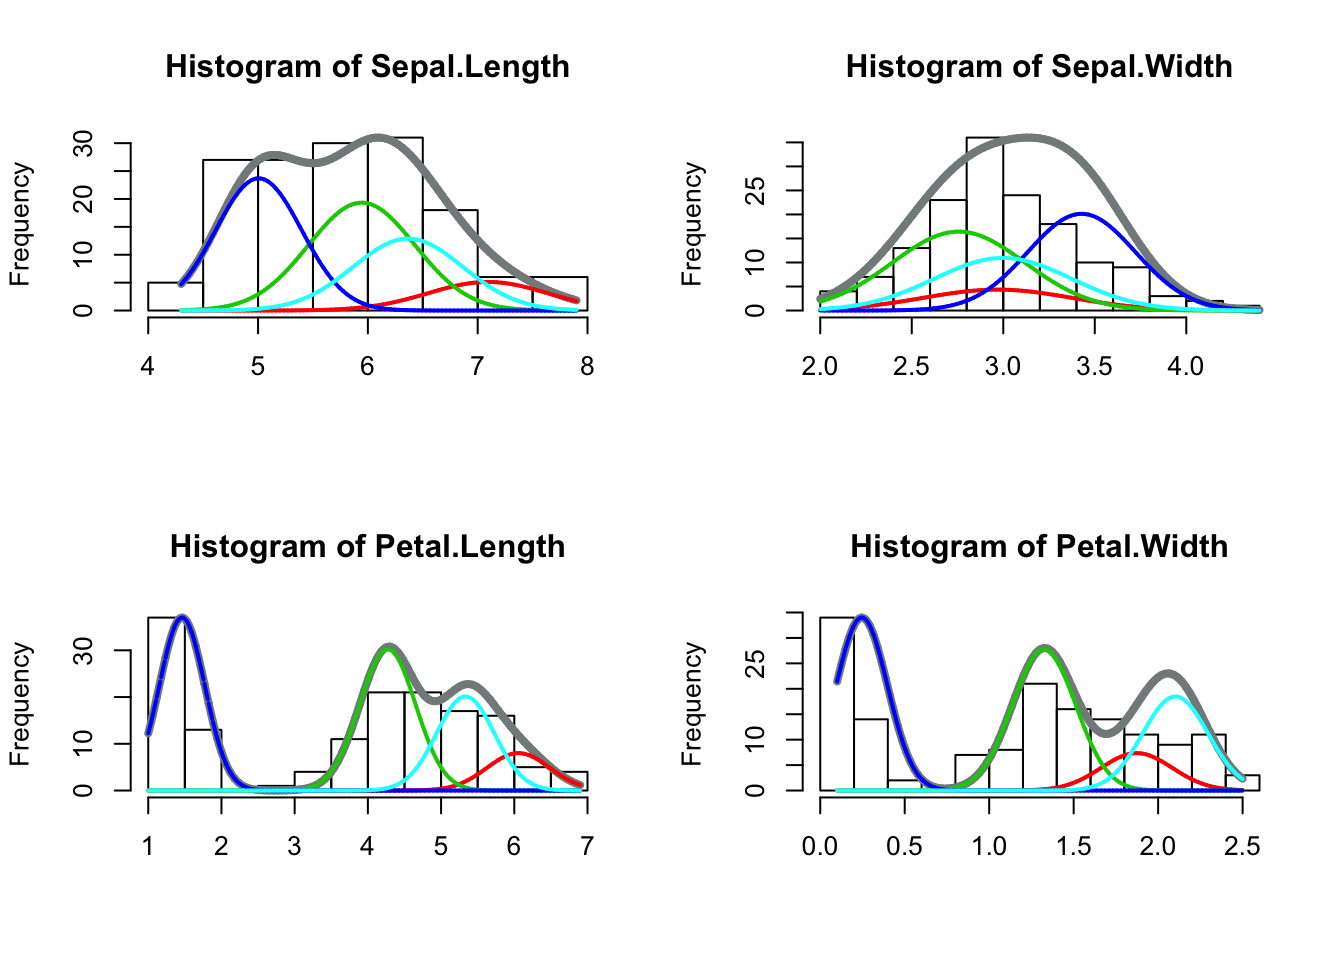
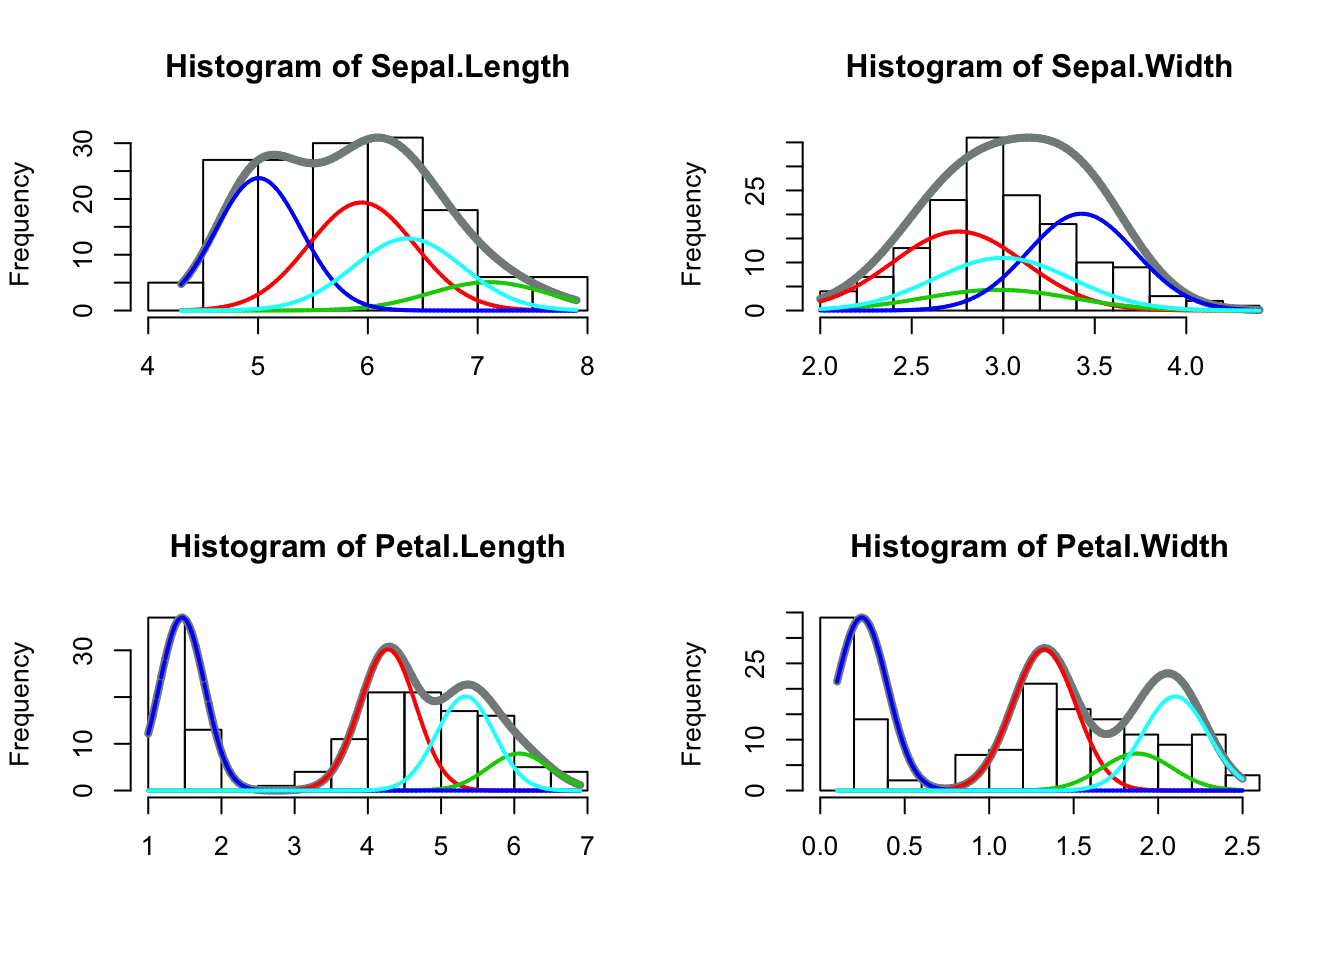
correct plot in stat prog R 4

diff --git a/stat-prog-R-4.html b/stat-prog-R-4.html
@@ -418,20 +418,18 @@ head(criterion[order(criterion$AIC),], 3)</code></pre>
 ## 124 7   VVV 415.4447 519.4447
 ## 107 8   VEV 429.1328 527.1328
 ## 126 9   VVV 432.4844 566.4844</code></pre>
-<pre class="r"><code>ggplot(criterion, aes(factor(G), AIC, color = model)) +
-    geom_line() </code></pre>
-<pre><code>## geom_path: Each group consists of only one observation. Do you need to
-## adjust the group aesthetic?</code></pre>
+<pre class="r"><code>ggplot(criterion, aes(G, AIC, color = model)) +
+    geom_line() +
+    scale_x_discrete(limits = G)</code></pre>
 <p><img src="stat-prog-R-4_files/figure-html/unnamed-chunk-7-1.png" width="672" /></p>
 <pre class="r"><code>head(criterion[order(criterion$AIC3),], 3)</code></pre>
 <pre><code>##     G model      AIC     AIC3
 ## 102 3   VEV 448.1473 486.1473
 ## 120 3   VVV 448.3719 492.3719
 ## 103 4   VEV 453.3948 503.3948</code></pre>
-<pre class="r"><code>ggplot(criterion, aes(factor(G), AIC3, color = model)) +
-    geom_line()</code></pre>
-<pre><code>## geom_path: Each group consists of only one observation. Do you need to
-## adjust the group aesthetic?</code></pre>
+<pre class="r"><code>ggplot(criterion, aes(G, AIC3, color = model)) +
+    geom_line() +
+    scale_x_discrete(limits = G)</code></pre>
 <p><img src="stat-prog-R-4_files/figure-html/unnamed-chunk-7-2.png" width="672" /></p>
 </div>
 <div id="hierarchical-clustering" class="section level3">
@@ -507,37 +505,37 @@ mixmodBIC</code></pre>
 ## ****************************************
 ## * nbCluster   =  4 
 ## * model name  =  Gaussian_pk_Lk_C 
-## * criterion   =  BIC(602.9129)
-## * likelihood  =  -221.2863 
+## * criterion   =  BIC(593.8644)
+## * likelihood  =  -216.7620 
 ## ****************************************
 ## *** Cluster 1 
-## * proportion =  0.3097 
-## * means      =  5.9261 2.7664 4.2192 1.3037 
-## * variances  = |     0.2044     0.0697     0.1261     0.0337 |
-##                |     0.0697     0.0909     0.0491     0.0265 |
-##                |     0.1261     0.0491     0.1413     0.0354 |
-##                |     0.0337     0.0265     0.0354     0.0320 |
+## * proportion =  0.3359 
+## * means      =  5.9438 2.7564 4.2704 1.3245 
+## * variances  = |     0.2352     0.1031     0.1258     0.0481 |
+##                |     0.1031     0.1314     0.0495     0.0282 |
+##                |     0.1258     0.0495     0.1472     0.0507 |
+##                |     0.0481     0.0282     0.0507     0.0353 |
 ## *** Cluster 2 
-## * proportion =  0.1332 
-## * means      =  5.2650 3.7543 1.4469 0.2521 
-## * variances  = |     0.1224     0.0418     0.0755     0.0202 |
-##                |     0.0418     0.0545     0.0294     0.0159 |
-##                |     0.0755     0.0294     0.0846     0.0212 |
-##                |     0.0202     0.0159     0.0212     0.0192 |
+## * proportion =  0.1000 
+## * means      =  7.0922 2.9685 6.0551 1.8731 
+## * variances  = |     0.2961     0.1298     0.1584     0.0605 |
+##                |     0.1298     0.1655     0.0623     0.0355 |
+##                |     0.1584     0.0623     0.1853     0.0639 |
+##                |     0.0605     0.0355     0.0639     0.0444 |
 ## *** Cluster 3 
-## * proportion =  0.2001 
-## * means      =  4.8336 3.2108 1.4721 0.2420 
-## * variances  = |     0.1083     0.0370     0.0669     0.0179 |
-##                |     0.0370     0.0482     0.0260     0.0140 |
-##                |     0.0669     0.0260     0.0749     0.0188 |
-##                |     0.0179     0.0140     0.0188     0.0170 |
+## * proportion =  0.2308 
+## * means      =  6.3655 2.9984 5.3335 2.1023 
+## * variances  = |     0.2502     0.1097     0.1339     0.0511 |
+##                |     0.1097     0.1398     0.0527     0.0300 |
+##                |     0.1339     0.0527     0.1566     0.0540 |
+##                |     0.0511     0.0300     0.0540     0.0375 |
 ## *** Cluster 4 
-## * proportion =  0.3570 
-## * means      =  6.5535 2.9636 5.5019 1.9990 
-## * variances  = |     0.3859     0.1317     0.2381     0.0636 |
-##                |     0.1317     0.1717     0.0926     0.0500 |
-##                |     0.2381     0.0926     0.2668     0.0669 |
-##                |     0.0636     0.0500     0.0669     0.0604 |
+## * proportion =  0.3333 
+## * means      =  5.0060 3.4280 1.4620 0.2460 
+## * variances  = |     0.1543     0.0677     0.0825     0.0315 |
+##                |     0.0677     0.0862     0.0325     0.0185 |
+##                |     0.0825     0.0325     0.0966     0.0333 |
+##                |     0.0315     0.0185     0.0333     0.0231 |
 ## ****************************************</code></pre>
 <pre class="r"><code>summary(mixmodBIC)</code></pre>
 <pre><code>## **************************************************************
@@ -546,37 +544,37 @@ mixmodBIC</code></pre>
 ## **************************************************************
 ## *       Number of cluster =  4 
 ## *              Model Type =  Gaussian_pk_Lk_C 
-## *               Criterion =  BIC(602.9129)
+## *               Criterion =  BIC(593.8644)
 ## *              Parameters =  list by cluster
 ## *                  Cluster  1 : 
-##                          Proportion =  0.3097 
-##                               Means =  5.9261 2.7664 4.2192 1.3037 
-##                           Variances = |     0.2044     0.0697     0.1261     0.0337 |
-##                                       |     0.0697     0.0909     0.0491     0.0265 |
-##                                       |     0.1261     0.0491     0.1413     0.0354 |
-##                                       |     0.0337     0.0265     0.0354     0.0320 |
+##                          Proportion =  0.3359 
+##                               Means =  5.9438 2.7564 4.2704 1.3245 
+##                           Variances = |     0.2352     0.1031     0.1258     0.0481 |
+##                                       |     0.1031     0.1314     0.0495     0.0282 |
+##                                       |     0.1258     0.0495     0.1472     0.0507 |
+##                                       |     0.0481     0.0282     0.0507     0.0353 |
 ## *                  Cluster  2 : 
-##                          Proportion =  0.1332 
-##                               Means =  5.2650 3.7543 1.4469 0.2521 
-##                           Variances = |     0.1224     0.0418     0.0755     0.0202 |
-##                                       |     0.0418     0.0545     0.0294     0.0159 |
-##                                       |     0.0755     0.0294     0.0846     0.0212 |
-##                                       |     0.0202     0.0159     0.0212     0.0192 |
+##                          Proportion =  0.1000 
+##                               Means =  7.0922 2.9685 6.0551 1.8731 
+##                           Variances = |     0.2961     0.1298     0.1584     0.0605 |
+##                                       |     0.1298     0.1655     0.0623     0.0355 |
+##                                       |     0.1584     0.0623     0.1853     0.0639 |
+##                                       |     0.0605     0.0355     0.0639     0.0444 |
 ## *                  Cluster  3 : 
-##                          Proportion =  0.2001 
-##                               Means =  4.8336 3.2108 1.4721 0.2420 
-##                           Variances = |     0.1083     0.0370     0.0669     0.0179 |
-##                                       |     0.0370     0.0482     0.0260     0.0140 |
-##                                       |     0.0669     0.0260     0.0749     0.0188 |
-##                                       |     0.0179     0.0140     0.0188     0.0170 |
+##                          Proportion =  0.2308 
+##                               Means =  6.3655 2.9984 5.3335 2.1023 
+##                           Variances = |     0.2502     0.1097     0.1339     0.0511 |
+##                                       |     0.1097     0.1398     0.0527     0.0300 |
+##                                       |     0.1339     0.0527     0.1566     0.0540 |
+##                                       |     0.0511     0.0300     0.0540     0.0375 |
 ## *                  Cluster  4 : 
-##                          Proportion =  0.3570 
-##                               Means =  6.5535 2.9636 5.5019 1.9990 
-##                           Variances = |     0.3859     0.1317     0.2381     0.0636 |
-##                                       |     0.1317     0.1717     0.0926     0.0500 |
-##                                       |     0.2381     0.0926     0.2668     0.0669 |
-##                                       |     0.0636     0.0500     0.0669     0.0604 |
-## *          Log-likelihood =  -221.2863 
+##                          Proportion =  0.3333 
+##                               Means =  5.0060 3.4280 1.4620 0.2460 
+##                           Variances = |     0.1543     0.0677     0.0825     0.0315 |
+##                                       |     0.0677     0.0862     0.0325     0.0185 |
+##                                       |     0.0825     0.0325     0.0966     0.0333 |
+##                                       |     0.0315     0.0185     0.0333     0.0231 |
+## *          Log-likelihood =  -216.7620 
 ## **************************************************************</code></pre>
 <pre class="r"><code>plot(mixmodBIC)</code></pre>
 <p><img src="stat-prog-R-4_files/figure-html/unnamed-chunk-9-1.png" width="672" /></p>
@@ -629,37 +627,37 @@ mixmodICL</code></pre>
 ## ****************************************
 ## * nbCluster   =  4 
 ## * model name  =  Gaussian_pk_Lk_C 
-## * criterion   =  ICL(612.7570)
-## * likelihood  =  -216.7617 
+## * criterion   =  ICL(612.7715)
+## * likelihood  =  -216.7612 
 ## ****************************************
 ## *** Cluster 1 
-## * proportion =  0.0998 
-## * means      =  7.0930 2.9688 6.0560 1.8732 
-## * variances  = |     0.2958     0.1297     0.1582     0.0604 |
-##                |     0.1297     0.1653     0.0622     0.0354 |
-##                |     0.1582     0.0622     0.1851     0.0638 |
-##                |     0.0604     0.0354     0.0638     0.0443 |
+## * proportion =  0.3365 
+## * means      =  5.9442 2.7560 4.2718 1.3249 
+## * variances  = |     0.2350     0.1032     0.1255     0.0480 |
+##                |     0.1032     0.1317     0.0493     0.0281 |
+##                |     0.1255     0.0493     0.1472     0.0507 |
+##                |     0.0480     0.0281     0.0507     0.0354 |
 ## *** Cluster 2 
-## * proportion =  0.3360 
-## * means      =  5.9439 2.7564 4.2706 1.3245 
-## * variances  = |     0.2352     0.1031     0.1258     0.0481 |
-##                |     0.1031     0.1315     0.0495     0.0282 |
-##                |     0.1258     0.0495     0.1472     0.0508 |
-##                |     0.0481     0.0282     0.0508     0.0353 |
+## * proportion =  0.0987 
+## * means      =  7.1028 2.9711 6.0650 1.8755 
+## * variances  = |     0.2938     0.1290     0.1569     0.0600 |
+##                |     0.1290     0.1647     0.0616     0.0351 |
+##                |     0.1569     0.0616     0.1840     0.0634 |
+##                |     0.0600     0.0351     0.0634     0.0442 |
 ## *** Cluster 3 
 ## * proportion =  0.3333 
 ## * means      =  5.0060 3.4280 1.4620 0.2460 
-## * variances  = |     0.1543     0.0676     0.0825     0.0315 |
-##                |     0.0676     0.0862     0.0324     0.0185 |
-##                |     0.0825     0.0324     0.0965     0.0333 |
-##                |     0.0315     0.0185     0.0333     0.0231 |
+## * variances  = |     0.1535     0.0674     0.0820     0.0314 |
+##                |     0.0674     0.0861     0.0322     0.0184 |
+##                |     0.0820     0.0322     0.0961     0.0331 |
+##                |     0.0314     0.0184     0.0331     0.0231 |
 ## *** Cluster 4 
-## * proportion =  0.2309 
-## * means      =  6.3657 2.9984 5.3336 2.1023 
-## * variances  = |     0.2503     0.1098     0.1339     0.0511 |
-##                |     0.1098     0.1399     0.0527     0.0300 |
-##                |     0.1339     0.0527     0.1567     0.0540 |
-##                |     0.0511     0.0300     0.0540     0.0375 |
+## * proportion =  0.2314 
+## * means      =  6.3656 2.9984 5.3339 2.1014 
+## * variances  = |     0.2501     0.1098     0.1335     0.0511 |
+##                |     0.1098     0.1402     0.0524     0.0299 |
+##                |     0.1335     0.0524     0.1566     0.0540 |
+##                |     0.0511     0.0299     0.0540     0.0376 |
 ## ****************************************</code></pre>
 <pre class="r"><code>summary(mixmodICL)</code></pre>
 <pre><code>## **************************************************************
@@ -668,37 +666,37 @@ mixmodICL</code></pre>
 ## **************************************************************
 ## *       Number of cluster =  4 
 ## *              Model Type =  Gaussian_pk_Lk_C 
-## *               Criterion =  ICL(612.7570)
+## *               Criterion =  ICL(612.7715)
 ## *              Parameters =  list by cluster
 ## *                  Cluster  1 : 
-##                          Proportion =  0.0998 
-##                               Means =  7.0930 2.9688 6.0560 1.8732 
-##                           Variances = |     0.2958     0.1297     0.1582     0.0604 |
-##                                       |     0.1297     0.1653     0.0622     0.0354 |
-##                                       |     0.1582     0.0622     0.1851     0.0638 |
-##                                       |     0.0604     0.0354     0.0638     0.0443 |
+##                          Proportion =  0.3365 
+##                               Means =  5.9442 2.7560 4.2718 1.3249 
+##                           Variances = |     0.2350     0.1032     0.1255     0.0480 |
+##                                       |     0.1032     0.1317     0.0493     0.0281 |
+##                                       |     0.1255     0.0493     0.1472     0.0507 |
+##                                       |     0.0480     0.0281     0.0507     0.0354 |
 ## *                  Cluster  2 : 
-##                          Proportion =  0.3360 
-##                               Means =  5.9439 2.7564 4.2706 1.3245 
-##                           Variances = |     0.2352     0.1031     0.1258     0.0481 |
-##                                       |     0.1031     0.1315     0.0495     0.0282 |
-##                                       |     0.1258     0.0495     0.1472     0.0508 |
-##                                       |     0.0481     0.0282     0.0508     0.0353 |
+##                          Proportion =  0.0987 
+##                               Means =  7.1028 2.9711 6.0650 1.8755 
+##                           Variances = |     0.2938     0.1290     0.1569     0.0600 |
+##                                       |     0.1290     0.1647     0.0616     0.0351 |
+##                                       |     0.1569     0.0616     0.1840     0.0634 |
+##                                       |     0.0600     0.0351     0.0634     0.0442 |
 ## *                  Cluster  3 : 
 ##                          Proportion =  0.3333 
 ##                               Means =  5.0060 3.4280 1.4620 0.2460 
-##                           Variances = |     0.1543     0.0676     0.0825     0.0315 |
-##                                       |     0.0676     0.0862     0.0324     0.0185 |
-##                                       |     0.0825     0.0324     0.0965     0.0333 |
-##                                       |     0.0315     0.0185     0.0333     0.0231 |
+##                           Variances = |     0.1535     0.0674     0.0820     0.0314 |
+##                                       |     0.0674     0.0861     0.0322     0.0184 |
+##                                       |     0.0820     0.0322     0.0961     0.0331 |
+##                                       |     0.0314     0.0184     0.0331     0.0231 |
 ## *                  Cluster  4 : 
-##                          Proportion =  0.2309 
-##                               Means =  6.3657 2.9984 5.3336 2.1023 
-##                           Variances = |     0.2503     0.1098     0.1339     0.0511 |
-##                                       |     0.1098     0.1399     0.0527     0.0300 |
-##                                       |     0.1339     0.0527     0.1567     0.0540 |
-##                                       |     0.0511     0.0300     0.0540     0.0375 |
-## *          Log-likelihood =  -216.7617 
+##                          Proportion =  0.2314 
+##                               Means =  6.3656 2.9984 5.3339 2.1014 
+##                           Variances = |     0.2501     0.1098     0.1335     0.0511 |
+##                                       |     0.1098     0.1402     0.0524     0.0299 |
+##                                       |     0.1335     0.0524     0.1566     0.0540 |
+##                                       |     0.0511     0.0299     0.0540     0.0376 |
+## *          Log-likelihood =  -216.7612 
 ## **************************************************************</code></pre>
 <pre class="r"><code>plot(mixmodICL)</code></pre>
 <p><img src="stat-prog-R-4_files/figure-html/unnamed-chunk-10-1.png" width="672" /></p>

diff --git a/stat-prog-R-5.html b/stat-prog-R-5.html
@@ -526,9 +526,11 @@ shinyServer(function(input, output, session) {
     
     observe({
         dimX = input$dimX
-        dimY = which(!(1:nDim == dimX))[1]
-        updateRadioButtons(session, "dimY",
-                           selected = dimY)
+        if (input$dimY == dimX) {
+            dimY = which(!(1:nDim == dimX))[1]
+            updateRadioButtons(session, "dimY",
+                               selected = dimY)
+        }
     })
     
     output$tab &lt;- renderTable({
